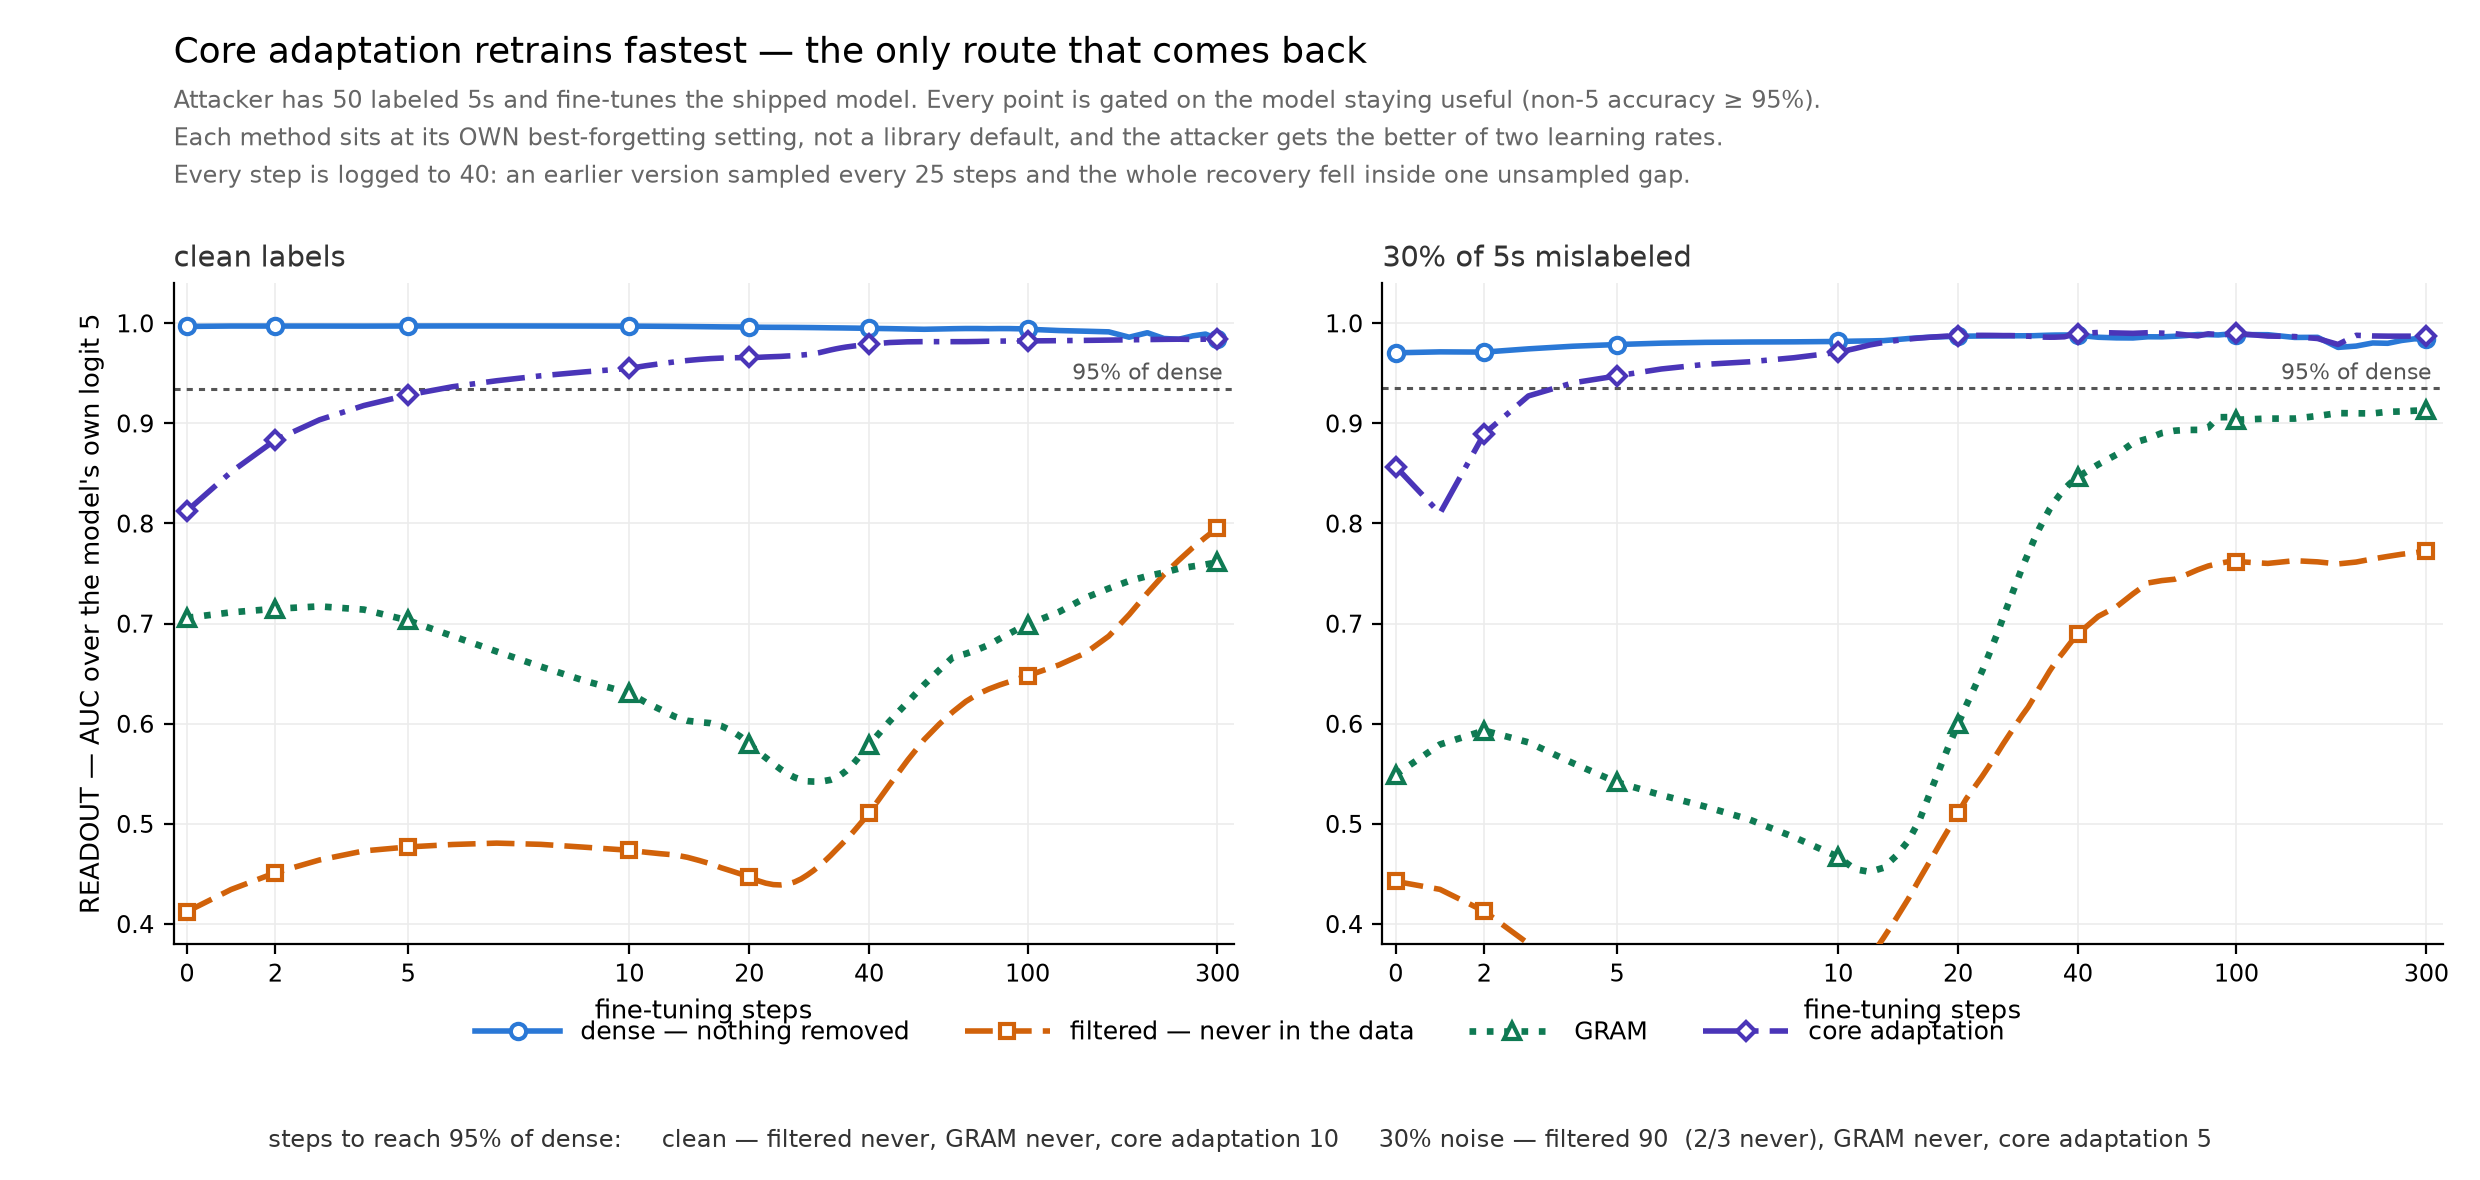
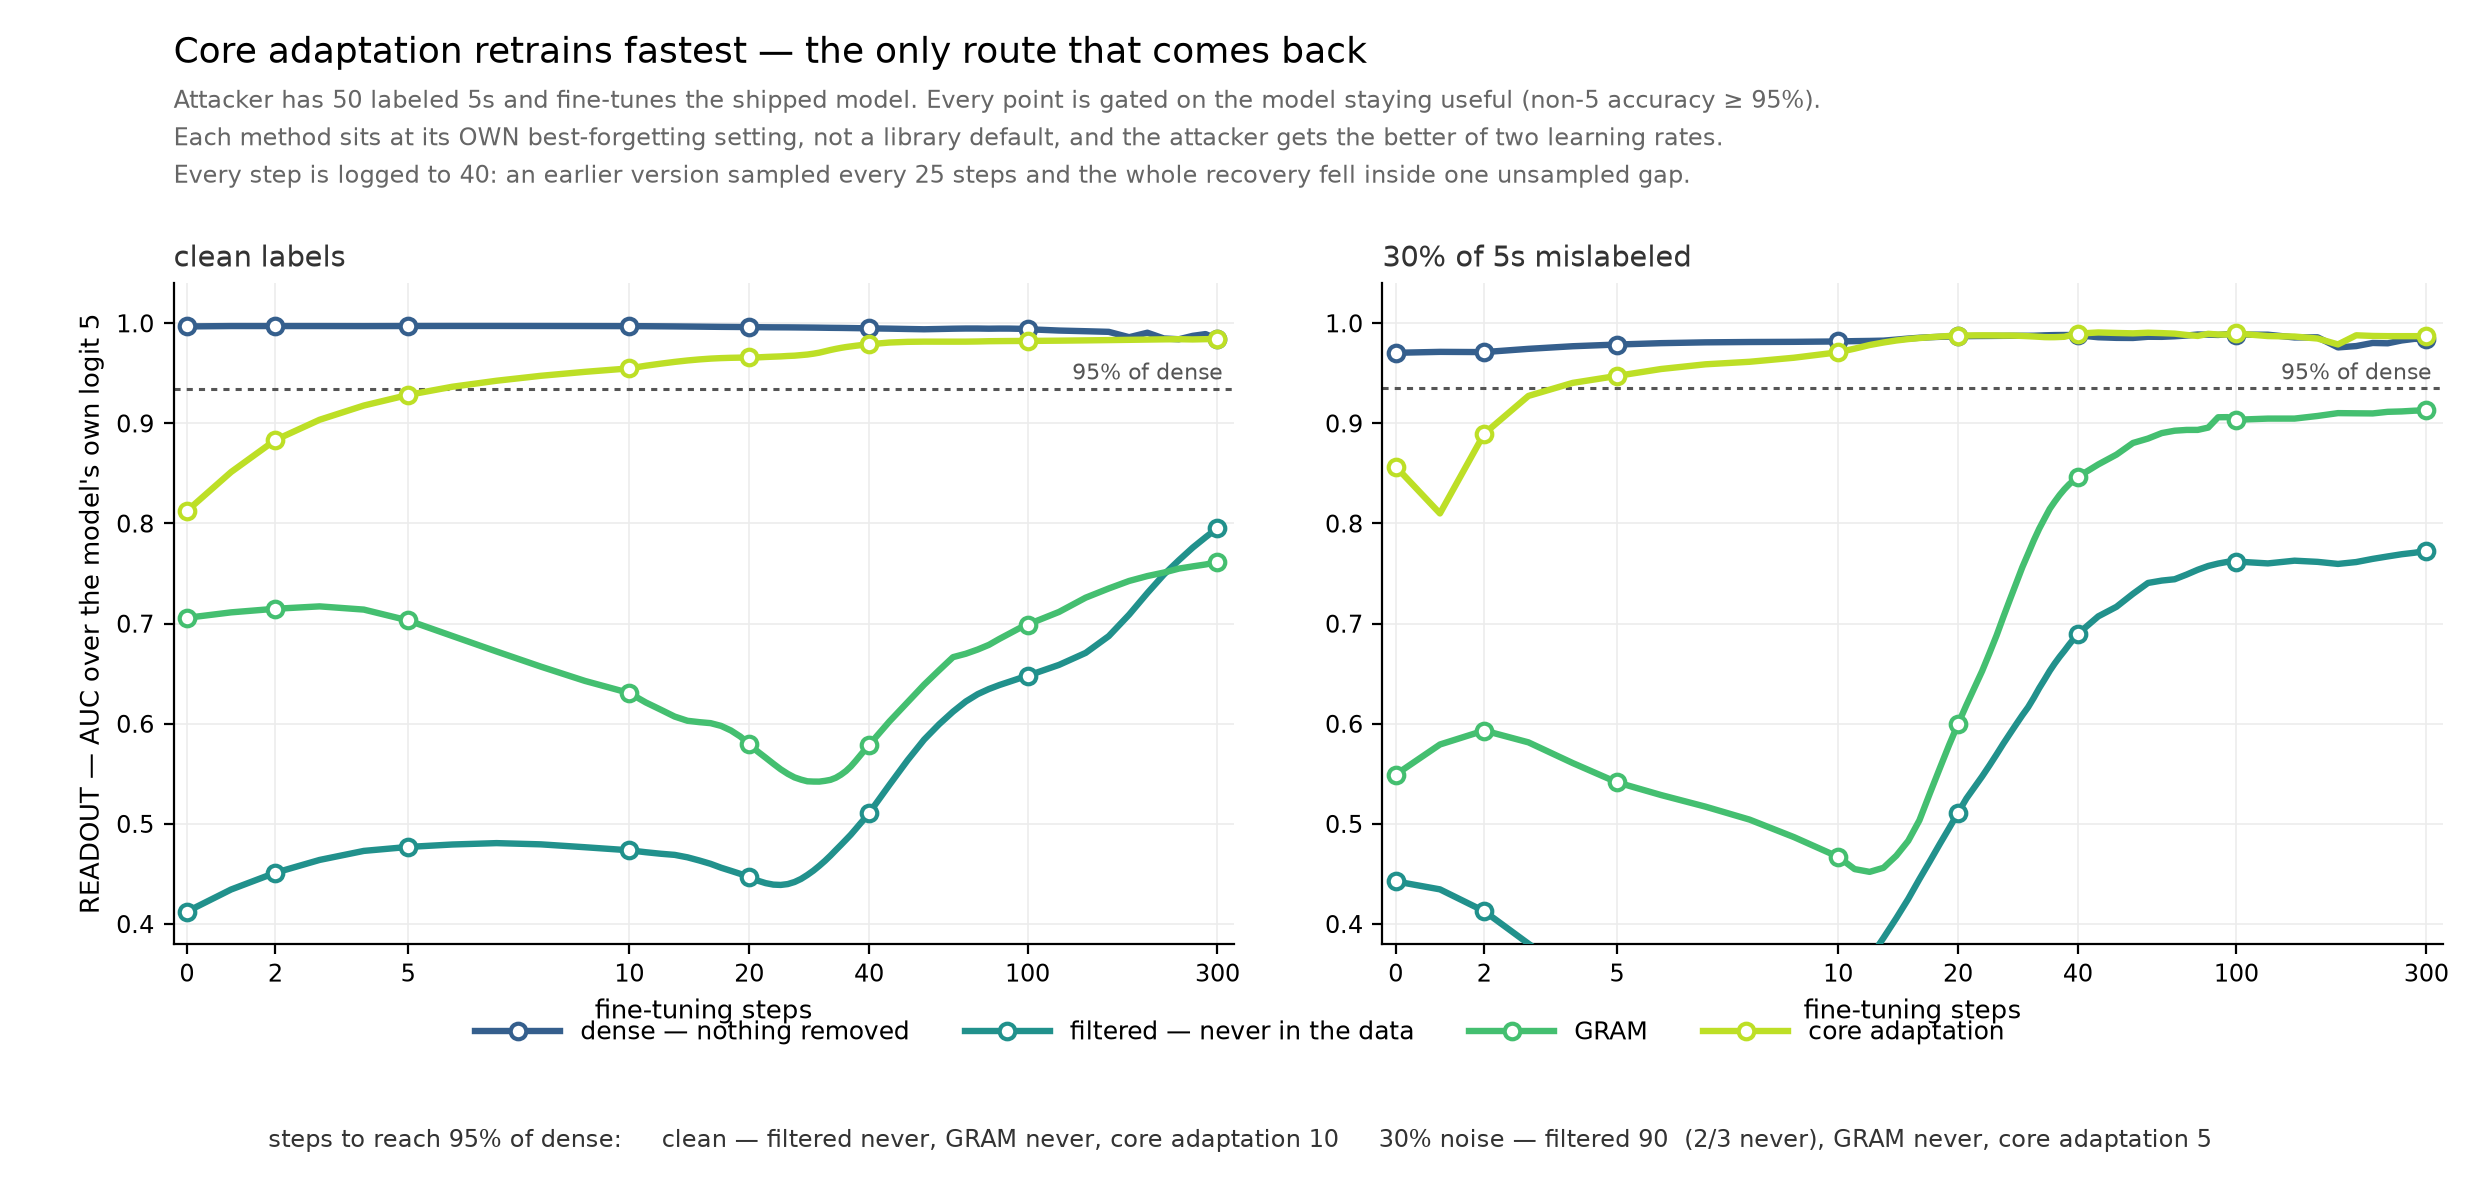
Use viridis(0.3-0.9) and one solid linestyle instead of dashes
Line styles were the wrong fix for greyscale legibility -- they add a channel the reader
has to decode and they look like noise. viridis is perceptually uniform and monotonic in
lightness, so sampling it between 0.3 and 0.9 gives colours that are already separable
without hue:

  viridis(0.3) #355f8d  luminance  87.5
  viridis(0.5) #21918c  luminance 110.6
  viridis(0.7) #44bf70  luminance 145.2
  viridis(0.9) #bddf26  luminance 191.6

Minimum gap between adjacent luminances is 23, against 12 for the hand-picked palette
this replaces. Every series is now one smooth solid line with a single open-circle
marker; no dashes anywhere.

figs_probe uses six samples spread across the same 0.3-0.9 span. In figs_steer the
matched-norm control stays dotted, which is not an exception to the rule: it marks a
different MEASUREMENT of the same arm, not a different arm.

Verified by rendering each figure to greyscale and reading it.

diff --git a/figs_probe.py b/figs_probe.py
@@ -32,22 +32,23 @@ HERE = os.path.dirname(os.path.abspath(__file__))
 D = json.load(open(f"{HERE}/results/instruments3.json"))
 STAGES = ["input", "embed", "block1", "block2", "logits"]
 COLS = STAGES + ["model's own\noutput"]
-# identity by line style AND marker first, colour second, so the panel survives greyscale
-ROWS = [
-    ("dense",         "dense — nothing removed",        "#2a78d6", "-",               "o"),
-    ("filtered",      "filtered — never in the data",   "#d1620a", (0, (5, 2)),       "s"),
-    ("gram_OFF",      "GRAM — module detached (ships)", "#0f7a53", (0, (1, 1.6)),     "^"),
-    ("gram_ON",       "GRAM — module reattached",       "#0f7a53", (0, (1, 3)),       "v"),
-    ("coreadapt_OFF", "core adapt — detached (ships)",  "#4a35b8", (0, (7, 2, 1, 2)), "D"),
-    ("coreadapt_ON",  "core adapt — reattached",        "#4a35b8", (0, (3, 2, 1, 2)), "P"),
-]
+# viridis 0.3-0.9: perceptually uniform, so these six are separable by luminance alone and
+# need no line-style channel. One smooth solid line throughout.
+import matplotlib.cm as _cm, matplotlib.colors as _mc
+_KEYS = ["dense", "filtered", "gram_OFF", "gram_ON", "coreadapt_OFF", "coreadapt_ON"]
+_LABS = ["dense — nothing removed", "filtered — never in the data",
+         "GRAM — module detached (ships)", "GRAM — module reattached",
+         "core adapt — detached (ships)", "core adapt — reattached"]
+_COLS = [_mc.to_hex(_cm.viridis(v)) for v in
+         [0.3 + 0.6 * i / (len(_KEYS) - 1) for i in range(len(_KEYS))]]
+ROWS = [(k, l, c, "-", "o") for k, l, c in zip(_KEYS, _LABS, _COLS)]
 INK, GREY = "#333333", "#9a9a92"
 FLOOR = D["probe"]["dense"]["input"]
 
 fig, ax = plt.subplots(figsize=(11.6, 6.6), dpi=200)
 fig.subplots_adjust(left=0.075, right=0.985, top=0.735, bottom=0.125)
 
-ax.axhspan(0.50, FLOOR, color="#f4f4f2", zorder=0)
+ax.axhspan(0.50, FLOOR, color="#fafaf8", zorder=0)
 ax.axhline(FLOOR, color=GREY, lw=1.3, ls="--", zorder=2)
 ax.text(0.05, FLOOR + 0.006,
         f"raw-pixel floor {FLOOR:.3f} — above this line a probe is reading MNIST, not the model",

diff --git a/figlang.py b/figlang.py
@@ -52,15 +52,18 @@ C = {"dense": "#2a78d6", "filtered": "#eb6834", "gram": "#1baf7a",
      "coreadapt": "#6250d6", "grey": "#9a9a92", "ink": "#333333"}
 
 
-# Identity must survive black-and-white printing and colour blindness, so every arm carries
-# a distinct LINE STYLE and MARKER as well as a colour, and the greys below are chosen to be
-# distinguishable in luminance alone. Colour is the redundant channel, never the only one.
-STYLE = {
-    "dense":     dict(color="#2a78d6", ls="-",            marker="o", lw=2.0, ms=5.5),
-    "filtered":  dict(color="#d1620a", ls=(0, (5, 2)),    marker="s", lw=2.0, ms=5.0),
-    "gram":      dict(color="#0f7a53", ls=(0, (1, 1.6)),  marker="^", lw=2.4, ms=5.5),
-    "coreadapt": dict(color="#4a35b8", ls=(0, (7, 2, 1, 2)), marker="D", lw=2.0, ms=4.8),
-}
+# Identity is carried by COLOUR sampled from viridis between 0.3 and 0.9. viridis is
+# perceptually uniform and monotonic in lightness, so those four samples have luminances
+# 87.5 / 110.6 / 145.2 / 191.6 -- a minimum gap of 23, against 12 for the old hand-picked
+# palette. That makes the figures readable in greyscale without dashes: one smooth solid
+# line everywhere, and no line-style channel to decode.
+import matplotlib.cm as _cm
+import matplotlib.colors as _mc
+
+_ORDER = ["dense", "filtered", "gram", "coreadapt"]
+_V = [0.3, 0.5, 0.7, 0.9]
+VIRIDIS = {k: _mc.to_hex(_cm.viridis(v)) for k, v in zip(_ORDER, _V)}
+STYLE = {k: dict(color=VIRIDIS[k], ls="-", marker="o", lw=2.3, ms=5.6) for k in _ORDER}
 LABEL = {
     "dense": "dense — nothing removed",
     "filtered": "filtered — never in the data",

diff --git a/figs_steer.py b/figs_steer.py
@@ -25,11 +25,13 @@ import matplotlib.pyplot as plt
 
 HERE = os.path.dirname(os.path.abspath(__file__))
 D = json.load(open(f"{HERE}/results/instruments3.json"))
-# line style and marker carry identity; colour is redundant so this reads in greyscale
-SHOW = [("dense", "dense — nothing removed", "#2a78d6", "-", "o"),
-        ("filtered", "filtered — never in the data", "#d1620a", (0, (5, 2)), "s"),
-        ("gram_OFF", "GRAM — module detached (ships)", "#0f7a53", (0, (1, 1.6)), "^"),
-        ("coreadapt_OFF", "core adapt — detached (ships)", "#4a35b8", (0, (7, 2, 1, 2)), "D")]
+# viridis 0.3-0.9 separates these by luminance, so one smooth solid line is enough.
+# The matched-norm control stays dotted: that is a different MEASUREMENT, not a different arm.
+import figlang as _L
+SHOW = [("dense", "dense — nothing removed", _L.VIRIDIS["dense"], "-", "o"),
+        ("filtered", "filtered — never in the data", _L.VIRIDIS["filtered"], "-", "o"),
+        ("gram_OFF", "GRAM — module detached (ships)", _L.VIRIDIS["gram"], "-", "o"),
+        ("coreadapt_OFF", "core adapt — detached (ships)", _L.VIRIDIS["coreadapt"], "-", "o")]
 INK, GREY = "#333333", "#9a9a92"
 alphas = sorted(D["steer"]["dense"]["self_dm"], key=float)
 xa = [float(a) for a in alphas]
